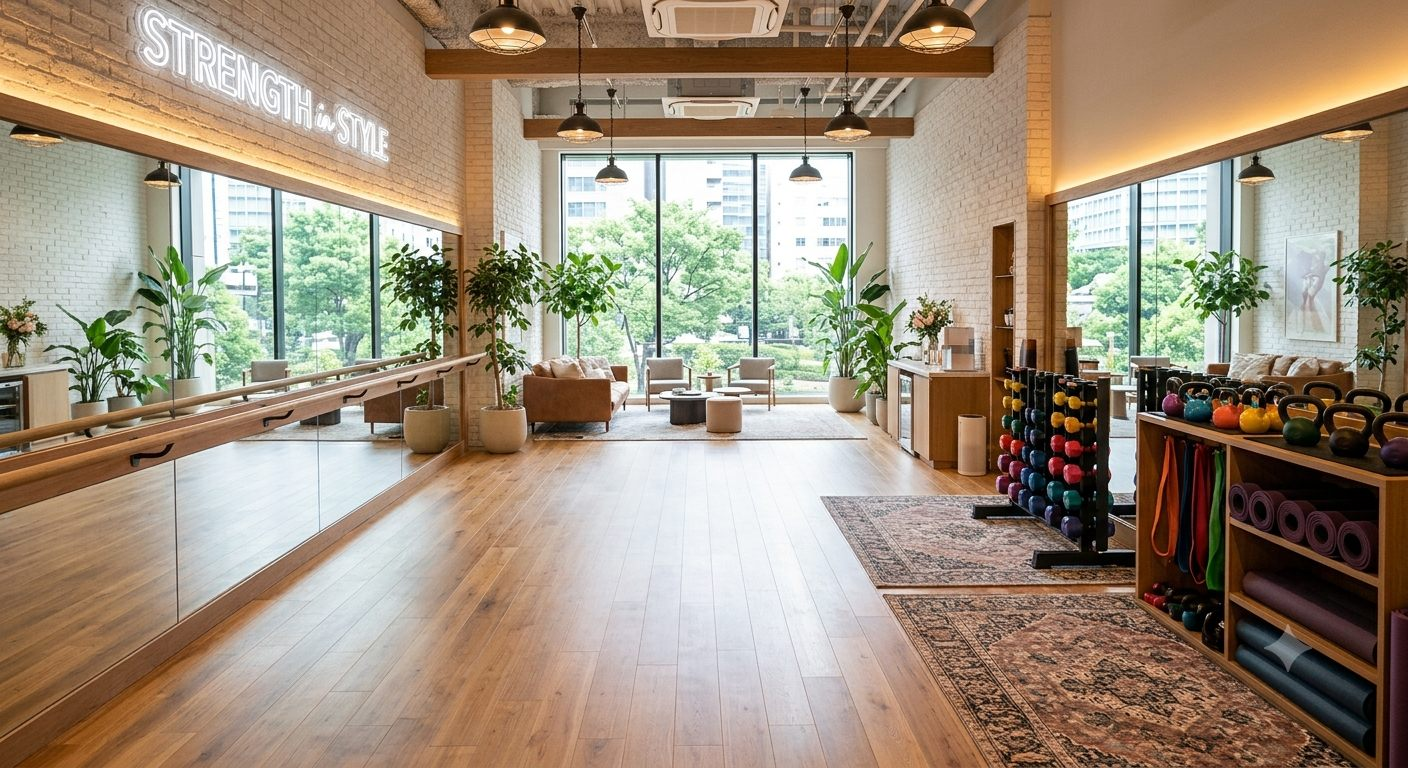
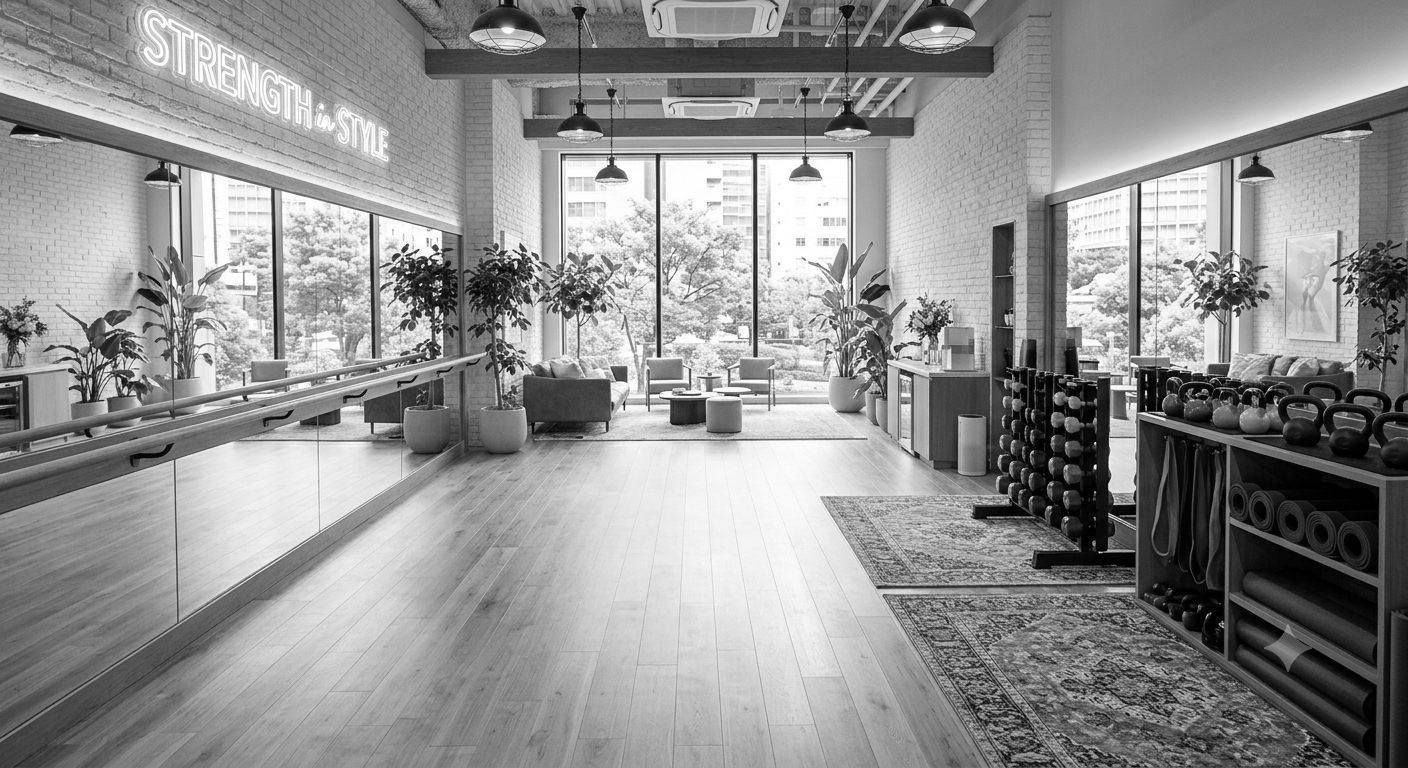
Redesign to HYROX-style black theme (black bg, white text, yellow accent, bold uppercase grotesque, mono photos)

diff --git a/index.html b/index.html
@@ -7,10 +7,10 @@
 <title>税理士法人G&Jパートナーズ｜フィットネスのかかりつけ税理士。数字の不安は、まかせてね。</title>
 <meta name="description" content="これから独立・開業するパーソナルトレーナーやジムオーナーのための、かかりつけ税理士。堅苦しさは抜きで、数字がわからなくても大丈夫。あなたの夢とジムづくりに寄り添います。初回相談無料・LINE相談OK。">
 
-<!-- ========== FONTS（明朝×セリフのエレガント系） ========== -->
+<!-- ========== FONTS（HYROX風：グロテスク系サンセリフ×和文ゴシック） ========== -->
 <link rel="preconnect" href="https://fonts.googleapis.com">
 <link rel="preconnect" href="https://fonts.gstatic.com" crossorigin>
-<link href="https://fonts.googleapis.com/css2?family=Cinzel:wght@400;500;600&family=Cormorant+Garamond:ital,wght@0,300;0,400;0,500;0,600;1,400&family=Shippori+Mincho:wght@400;500;600;700&family=Zen+Kaku+Gothic+New:wght@300;400;500&display=swap" rel="stylesheet">
+<link href="https://fonts.googleapis.com/css2?family=Archivo:wght@400;500;600;700;800;900&family=Zen+Kaku+Gothic+New:wght@400;500;700;900&display=swap" rel="stylesheet">
 
 <style>
 /* ============================================================
@@ -19,22 +19,22 @@
    ============================================================ */
 
 :root{
-  --gray:      #f4ecdf;   /* ベージュ（メイン背景。添付参考） */
-  --gray-alt:  #ece1d0;   /* 少し深いベージュ（交互セクション） */
-  --gray-dark: #4e4034;   /* 濃いブラウン（フッター・帯のオーバーレイ用） */
-  --panel:     rgba(90,74,59,.05);
-  --panel-2:   rgba(90,74,59,.09);
-  --line:      rgba(90,74,59,.22);
-  --line-soft: rgba(90,74,59,.13);
-  --ink:       #5a4a3b;   /* ブラウン（主要テキスト） */
-  --ink-mute:  rgba(90,74,59,.75);  /* ブラウン（本文・副次テキスト） */
-  --ink-dim:   rgba(90,74,59,.5);
-  --accent:    #dd7a50;   /* コーラル／オレンジの差し色（添付参考） */
+  --gray:      #1a1a1d;   /* 黒ベース（メイン背景。HYROX風） */
+  --gray-alt:  #232327;   /* 少し明るいチャコール（交互セクション） */
+  --gray-dark: #0b0b0d;   /* ほぼ純黒（フッター・帯のオーバーレイ用） */
+  --panel:     rgba(255,255,255,.04);
+  --panel-2:   rgba(255,255,255,.08);
+  --line:      rgba(255,255,255,.16);
+  --line-soft: rgba(255,255,255,.09);
+  --ink:       #ffffff;   /* 白（主要テキスト） */
+  --ink-mute:  rgba(255,255,255,.66);  /* 白（本文・副次テキスト） */
+  --ink-dim:   rgba(255,255,255,.4);
+  --accent:    #ffed00;   /* HYROXイエロー（差し色） */
   --maxw:      1180px;
-  --serif:     "Cormorant Garamond", serif;      /* 英字ディスプレイ */
-  --mincho:    "Shippori Mincho", serif;          /* 和文見出し */
+  --serif:     "Archivo", sans-serif;             /* 英字ディスプレイ */
+  --mincho:    "Zen Kaku Gothic New", sans-serif; /* 和文見出し */
   --gothic:    "Zen Kaku Gothic New", sans-serif; /* 和文本文 */
-  --logo:      "Cinzel", serif;                   /* ロゴ（会社名） */
+  --logo:      "Archivo", sans-serif;             /* ロゴ（会社名） */
 }
 
 *,*::before,*::after{box-sizing:border-box;margin:0;padding:0}
@@ -346,6 +346,40 @@ ul{list-style:none}
   .nav.open a{font-size:26px}
   .nav.open a .j{font-size:11px;margin-top:4px}
 }
+/* ============================================================
+   HYROX風 テーマ上書き（黒地 × 白 × イエロー／大文字グロテスク）
+   ============================================================ */
+/* 英字ディスプレイの大文字・太字化 */
+.shead .titles .en{font-weight:800;text-transform:uppercase;letter-spacing:.005em}
+.shead .num{color:var(--accent);font-weight:600}
+.shead .titles .jp{color:var(--ink-mute)}
+.brand .en{text-transform:uppercase;letter-spacing:.18em;font-weight:800}
+.brand .jp{color:var(--ink-mute)}
+.nav a{color:var(--ink);text-transform:uppercase;font-weight:600;letter-spacing:.1em}
+.nav a .j{color:var(--ink-mute);font-family:var(--gothic);text-transform:none}
+/* イタリックの飾りをやめて大文字ラベルに */
+.band .en,.svc .en,.rep-body .role,.hero-visual .cap{font-style:normal;text-transform:uppercase;letter-spacing:.12em;font-weight:700}
+.footer h5{text-transform:uppercase;font-weight:700;letter-spacing:.14em}
+.voice .mark{color:var(--accent)}
+/* 和文見出しを太めに（インパクト重視） */
+.hero-copy h1{font-weight:800;letter-spacing:.02em}
+.name,.reason h3,.svc h3,.plan .pname,.step h4,.worries-note,.band h2,.cta h2,.rep-body .quote,.rep-quote{font-weight:700}
+/* ボタン：角ばり＋ホバーでイエロー */
+.btn{text-transform:uppercase;font-weight:700;letter-spacing:.1em}
+.btn:hover{background:var(--accent);color:#111;border-color:var(--accent)}
+.btn-fill{background:#fff;color:#111;border-color:#fff}
+.btn-fill:hover{background:var(--accent);color:#111;border-color:var(--accent)}
+.btn-solid{background:var(--accent);border-color:var(--accent);color:#111}
+.btn-solid:hover{background:transparent;color:var(--ink);border-color:var(--line)}
+/* ヘッダー／メニュー／追従バーの地色を黒系に */
+.site-header.scrolled{background:rgba(18,18,21,.9)}
+.mobile-bar{background:rgba(11,11,13,.96)}
+.nav.open{background:rgba(11,11,13,.98)}
+/* 帯・CTAのオーバーレイを黒に */
+.band::before{background:linear-gradient(rgba(0,0,0,.5),rgba(0,0,0,.6))}
+.cta::before{background:linear-gradient(rgba(0,0,0,.62),rgba(0,0,0,.7))}
+/* 写真をモノクロに（HYROX風） */
+.hero-visual .frame img,.svc .ph img,.rep-photo .disc img{filter:grayscale(1) contrast(1.04)}
 </style>
 </head>
 
